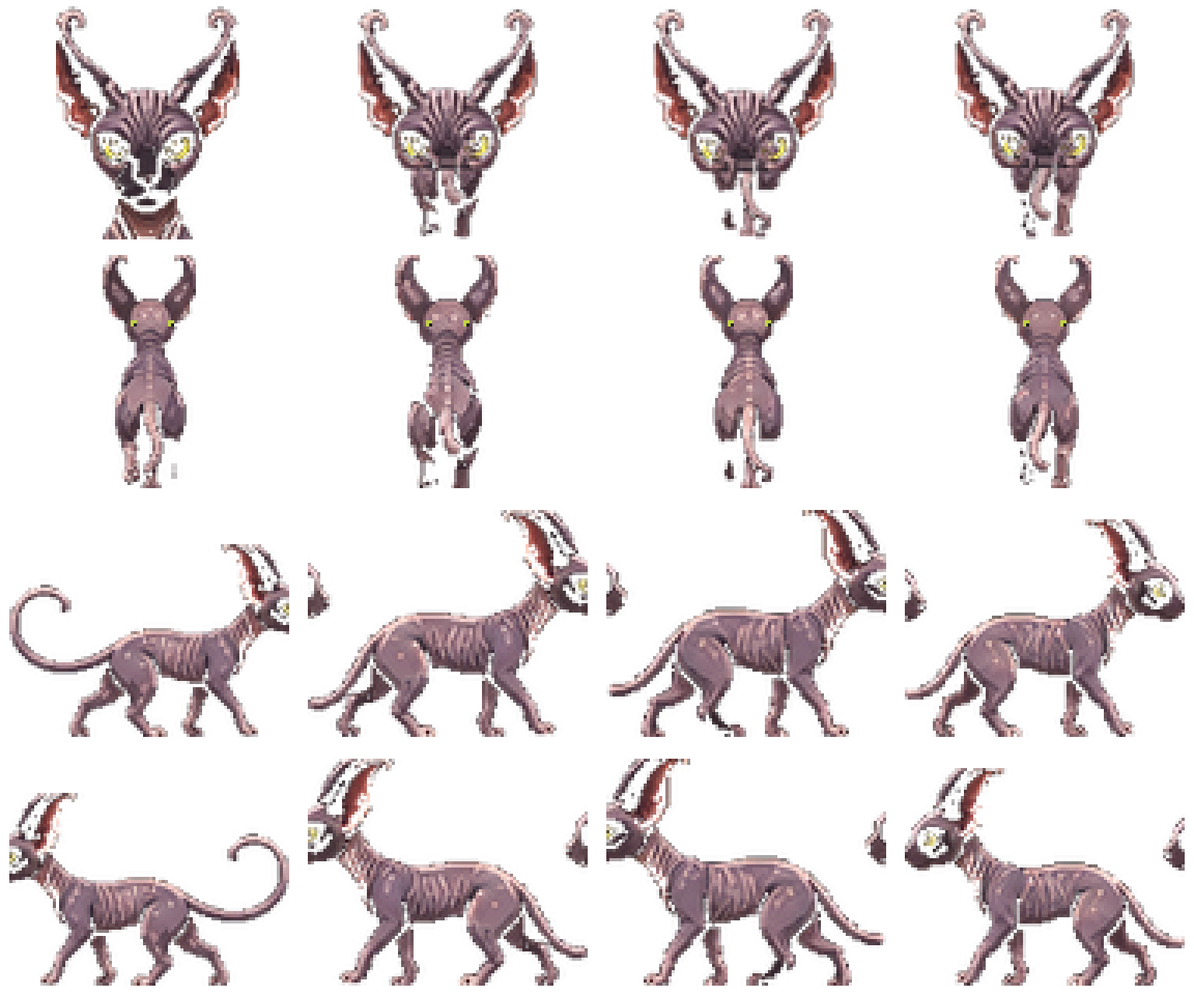
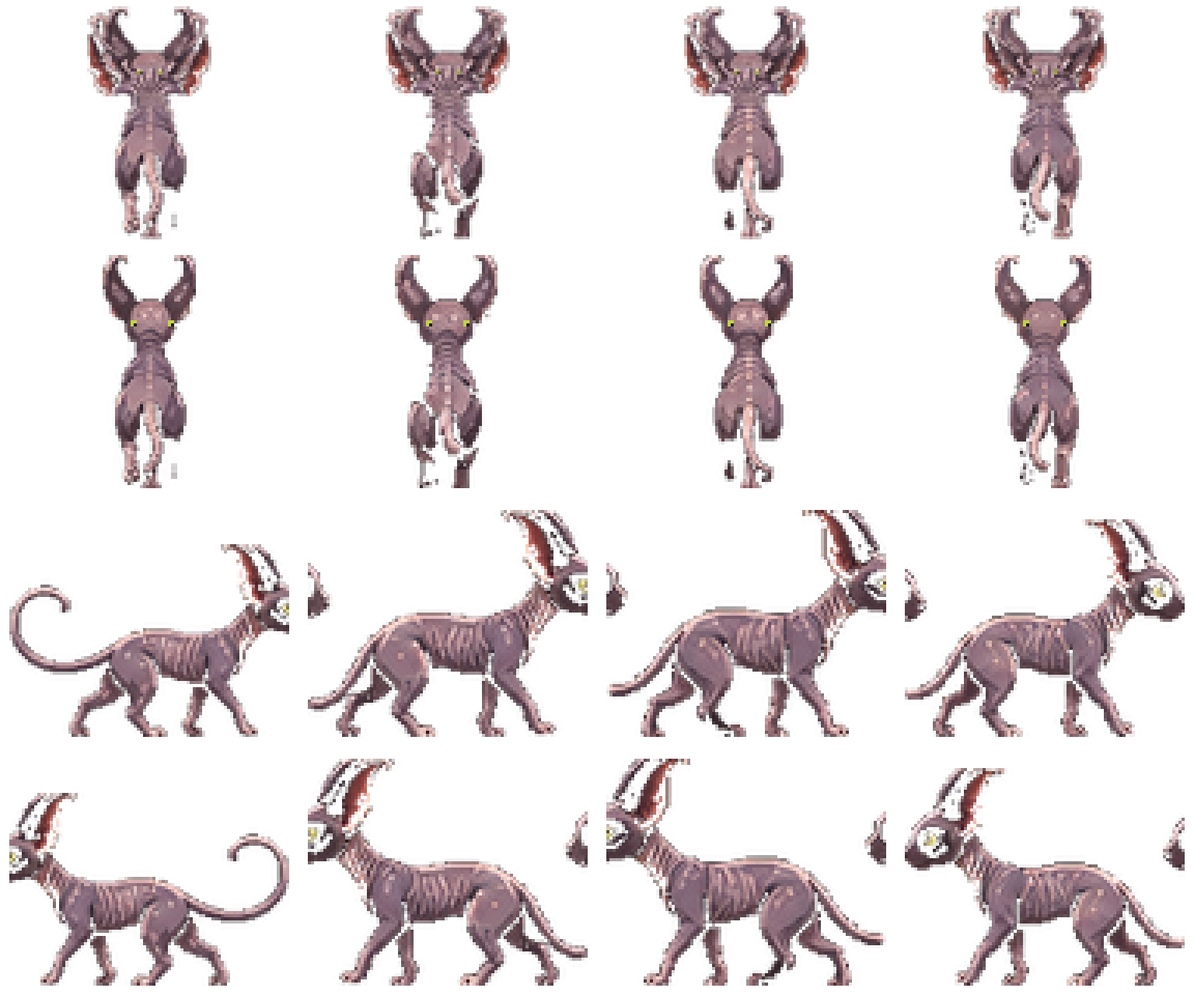
Fix Blue Sphynx in-game scale, atlas DOWN body, and label anchoring.
Rebuild full-body DOWN frames (no head-only cells), draw Blue at adult
Sphynx scale (~148×124 accounting for in-cell pad), raise his name label,
and bias Y-sort so foliage no longer swallows him. Add scale-lineup QA
evidence beside Haigen, Dylan, and Skölli.

diff --git a/haigen.html b/haigen.html
@@ -2432,43 +2432,101 @@ window.__approvedBlueAsset='blue-sphynx-atlas-v435.webp';
 blueAtlas.src='./assets/'+window.__approvedBlueAsset;
 function drawApprovedBlue(x,y,actor){
  if(!blueAtlasReady)return false;
- const m=actor||playerMotion,dir=m.dir||'down',moving=!!m.moving;
+ const m=actor||playerMotion,qa=actor&&actor._qaPose;
+ const dir=(qa&&qa.dir)||m.dir||'down',moving=qa?!!qa.moving:!!m.moving;
  const anim=m.anim||0,mode=m.mode||actor?.mode||'watching';
- const rest=['resting','sleeping'].includes(mode);
+ const rest=!qa&&['resting','sleeping'].includes(mode);
  const row={down:0,up:1,right:2,left:3}[dir]??0;
  const col=rest?0:(moving?Math.floor(anim/130)%4:0);
  const bounce=moving?Math.abs(Math.sin(anim*.014))*2:0;
- const width=58,height=48,drawX=Math.round(x-width/2),drawY=Math.round(y-height+5-bounce);
+ // Full-body cell (96×80). Side poses leave empty top pad in-cell (~76% filled), so draw
+ // taller than Haigen's 120px box: visible body+ears lands ~70%+ of Haigen (not kitten-scale).
+ const width=148,height=124,drawX=Math.round(x-width/2),drawY=Math.round(y-height+5-bounce);
  ctx.save();ctx.imageSmoothingEnabled=false;
- nordicContactShadow(x,y+5,14,3.5);
+ nordicContactShadow(x,y+7,32,7);
  ctx.drawImage(blueAtlas,col*96,row*80,96,80,drawX,drawY,width,height);
  ctx.restore();
- window.__v435BlueLastFrame={dir,moving,row,col,mode,width,height};
+ window.__v435BlueLastFrame={dir,moving,row,col,mode,width,height,footPad:5};
  return true;
 }
 window.__v435BlueStatus=()=>({
  asset:window.__approvedBlueAsset,loaded:blueAtlasReady,width:blueAtlas.naturalWidth,height:blueAtlas.naturalHeight,
  lastFrame:window.__v435BlueLastFrame||null
 });
+window.__blueQARestore=()=>{
+ if(!window.__blueQAStash)return;
+ for(const s of window.__blueQAStash){s.o.x=s.x;s.o.y=s.y}
+ window.__blueQAStash=null;
+};
 window.__blueQAPlace=(opts={})=>{
  const dir=opts.dir||'down',moving=!!opts.moving,close=!!opts.close;
- state.x=1530;state.y=1655;state.autonomy=false;state.resting=false;
- cam.x=1530;cam.y=close?1668:1635;cameraDetached=true;look.x=0;look.y=0;
+ const focus=opts.focus||'sphynx'; // sphynx | rabbit | fox
+ window.__blueQARestore();
+ // Open grass south of cottage — away from Haigen's tall sprite and art-cart clutter.
+ const focusX=1420,focusY=close?1588:1620;
+ state.x=close?focusX-160:1500;state.y=close?focusY-120:1580;
+ state.autonomy=false;state.resting=false;
+ playerMotion.dir='right';playerMotion.moving=false;
+ cam.x=focusX;cam.y=close?focusY+6:1605;cameraDetached=true;look.x=0;look.y=0;
+ if(close){
+  // Temporarily park foliage that Y-sorts over a small companion and reads as "buried".
+  const stash=[];
+  for(const o of objects){
+   if(!['bush','tree','fir','bareTree','palm','rock','log','stump'].includes(o.type))continue;
+   if(Math.hypot(o.x-focusX,o.y-focusY)>110)continue;
+   stash.push({o,x:o.x,y:o.y});o.x=-9999;o.y=-9999;
+  }
+  window.__blueQAStash=stash;
+ }
  for(const c of companions){
-  if(c.kind==='sphynx'){
-   c.x=close?state.x:state.x-28;c.y=close?state.y+36:state.y+42;
-   c.mode='watching';c.target=null;c.dir=dir;c.moving=moving;c.anim=moving?400:0;c.t=5000;
-  }else if(close){c.x=state.x+180;c.y=state.y+180}
-  else if(c.kind==='rabbit'){c.x=state.x-70;c.y=state.y+20}
+  c._qaPose=null;
+  if(c.kind===focus){
+   c.x=close?focusX:(c.kind==='sphynx'?state.x-28:c.kind==='rabbit'?state.x-70:state.x+70);
+   c.y=close?focusY:(c.kind==='sphynx'?state.y+42:state.y+20);
+   // 'called' keeps Skölli from auto-returning to the runestone mid-screenshot.
+   c.mode=close?'called':(c.kind==='fox'?'watching':c.kind==='rabbit'?'wandering':'watching');
+   c.target=null;c.dir=dir;c.moving=moving;c.anim=moving?400:0;c.t=12000;
+   c.threatWatchUntil=(typeof time==='number'?time:0)+20000;
+   if(c.kind==='sphynx')c._qaPose={dir,moving};
+  }else if(close||focus!=='sphynx'){
+   c.x=focusX+280;c.y=focusY+280;
+  }else if(c.kind==='rabbit'){c.x=state.x-70;c.y=state.y+20}
   else if(c.kind==='fox'){c.x=state.x+70;c.y=state.y+20}
  }
  return {
   build:window.__haigenBuild,
   kinds:companions.map(c=>c.kind),
   friends:state.friends,
+  focus,
+  cleared:close?(window.__blueQAStash||[]).length:0,
   blue:window.__v435BlueStatus(),
   saveKey:'wandererV127PreviewSave'
  };
+};
+
+
+window.__blueQALineup=()=>{
+ // Scale-comparison lineup: Haigen + Dylan + Blue + Skölli on open grass, labels clear.
+ window.__blueQARestore();
+ const baseX=1420,baseY=1588;
+ state.x=baseX-95;state.y=baseY;state.autonomy=false;state.resting=false;
+ playerMotion.dir='right';playerMotion.moving=false;playerMotion.anim=0;
+ cam.x=baseX+10;cam.y=baseY+8;cameraDetached=true;look.x=0;look.y=0;
+ const stash=[];
+ for(const o of objects){
+  if(!['bush','tree','fir','bareTree','palm','rock','log','stump'].includes(o.type))continue;
+  if(Math.hypot(o.x-baseX,o.y-baseY)>140)continue;
+  stash.push({o,x:o.x,y:o.y});o.x=-9999;o.y=-9999;
+ }
+ window.__blueQAStash=stash;
+ const spots={rabbit:[baseX-30,baseY+8],sphynx:[baseX+85,baseY+14],fox:[baseX+220,baseY+6]};
+ for(const c of companions){
+  c._qaPose=null;c.target=null;c.t=12000;c.moving=false;c.anim=0;c.dir='down';
+  c.threatWatchUntil=(typeof time==='number'?time:0)+20000;c.mode='called';
+  const s=spots[c.kind];if(s){c.x=s[0];c.y=s[1]}
+  if(c.kind==='sphynx')c._qaPose={dir:'down',moving:false};
+ }
+ return {lineup:true,blue:window.__v435BlueStatus(),cleared:stash.length};
 };
 
 function drawIllustratedCompanion(x,y,type,actor){
@@ -4538,7 +4596,7 @@ function foliageVisibility(o){
  }
  let distance=distanceToCanopy(state,46);
  for(const companion of companions){
-  if(companion.y<=o.y)distance=Math.min(distance,distanceToCanopy(companion,companion.kind==='fox'?24:companion.kind==='sphynx'?18:32));
+  if(companion.y<=o.y)distance=Math.min(distance,distanceToCanopy(companion,companion.kind==='fox'?24:companion.kind==='sphynx'?28:32));
  }
  if(nico.ready&&nicoArt.naturalWidth&&!homeInside&&nico.y<=o.y){
   distance=Math.min(distance,distanceToCanopy(nico,46));
@@ -9227,7 +9285,7 @@ for(let i=0;i<11;i++){
 for(let i=0;i<13;i++){const a=i*2.399,bx=pond.x+Math.cos(a)*pond.rx*lakeRadius(a)*.96,by=pond.y+Math.sin(a)*pond.ry*lakeRadius(a)*.96;ctx.strokeStyle='#4e9566';ctx.lineWidth=3;ctx.beginPath();ctx.moveTo(bx,by+9);ctx.lineTo(bx+Math.sin(time*.001+i)*5,by-22);ctx.stroke()}drawRegionalWildlife();if(!state.raftAfloat)drawRaft();function trollDoorwayTree(o){return (o.type==='tree'||o.type==='fir'||o.type==='bareTree'||o.kind==='tree'||o.kind==='fir')&&Math.abs(o.x-trollStumpHome.x)<310&&o.y>trollStumpHome.y-120&&o.y<trollStumpHome.y+310;}
 const visible=objects.filter(o=>!trollDoorwayTree(o)&&!worldEditorHidden.has(o.id)&&!o.type.startsWith('hamlet-')&&!state.removed.includes(o.id)&&canPlaceScenery(o)&&flowerHasHabitat(o)&&!campsiteProtected(o)&&Math.abs(o.x-cam.x)<W/zoom/2+150&&Math.abs(o.y-cam.y)<H/zoom/2+150);homesteadPlots.forEach(p=>{drawHomesteadPlotGround(p);drawLifeConstruction(p,false)});drawHaigenLookout();const drawables=[...homesteadPlots.filter(p=>homesteadTier(p)>0&&p.kind!=='jetty').map(p=>({y:homesteadSortY(p),draw:()=>drawHomesteadPlotForeground(p)})),...homesteadPlots.filter(p=>state.lifeProject?.kind===p.kind&&homesteadTier(p)===0).map(p=>({y:homesteadSortY(p),draw:()=>drawLifeConstruction(p,true)})),...remainingCampDebris().map(d=>({y:d.y,draw:()=>drawCampDebris(d)})),...state.meatDrops.filter(o=>Math.abs(o.x-cam.x)<W/zoom/2+150&&Math.abs(o.y-cam.y)<H/zoom/2+150).map(o=>({y:o.y,draw:()=>drawMeatDrop(o)})),...state.stoneDrops.filter(o=>Math.abs(o.x-cam.x)<W/zoom/2+150&&Math.abs(o.y-cam.y)<H/zoom/2+150).map(o=>({y:o.y,draw:()=>drawStonePiece(o)})),...state.fallen.filter(o=>!campsiteProtected(o)&&islandDepth(o.x,o.y)>70&&Math.abs(o.x-cam.x)<W/zoom/2+150&&Math.abs(o.y-cam.y)<H/zoom/2+150).map(o=>({y:o.y,draw:()=>{ellipse(o.x,o.y+5,17,8,'#385e39');if(o.kind==='log'){ctx.save();ctx.translate(o.x,o.y);ctx.rotate((Math.abs(o.x*7+o.y*3)%9-4)*.035);ctx.fillStyle='#302f29';ctx.fillRect(-26,-10,54,22);ctx.fillStyle='#79563b';ctx.fillRect(-24,-9,49,19);ctx.fillStyle='#a47a50';ctx.fillRect(-22,-8,46,5);ctx.fillStyle='#56432f';for(let j=0;j<4;j++)ctx.fillRect(-18+j*11,-2+(j%2)*5,3,7);ellipse(25,1,10,11,'#3b322a');ellipse(25,1,8,9,'#d0ad79');ellipse(25,1,5,6,'#96734f');ellipse(25,1,2,3,'#d0ad79');ctx.restore()}else if(o.kind==='twig'){ctx.strokeStyle='#745039';ctx.lineWidth=4;ctx.beginPath();ctx.moveTo(o.x-15,o.y+9);ctx.lineTo(o.x+15,o.y-12);ctx.moveTo(o.x-6,o.y);ctx.lineTo(o.x-9,o.y-12);ctx.stroke()}else{for(let j=0;j<5;j++)ellipse(o.x+(j-2)*7,o.y+(j%2)*5,7,4,j%2?'#6da04b':'#93b85e')}}})),...visible.filter(o=>o.type!=='specter'||spectorsActive()).map(o=>({y:o.type==='specter'?o.y+145:o.y,draw:()=>drawSceneryNearHaigen(o)})),...worldEditorData.placed.filter(o=>!worldEditorGroundKinds.has(o.type)&&Math.abs(o.x-cam.x)<W/zoom/2+250&&Math.abs(o.y-cam.y)<H/zoom/2+250).map(o=>({y:o.y,draw:()=>worldEditorSprite(o)})),{y:6600,draw:drawRiverwatchLighthouse},...objects.filter(o=>o.type.startsWith('hamlet-')&&!worldEditorHidden.has(o.id)&&Math.abs(o.x-cam.x)<W/zoom/2+190&&Math.abs(o.y-cam.y)<H/zoom/2+190).map(o=>({y:o.y,draw:()=>drawHamletScenery(o)})),...woodlandDetails.filter(o=>!trollDoorwayTree(o)&&(o.kind!=='fungi'||woodlandFungiReady(o))&&canPlaceScenery(o)&&!campsiteProtected(o)&&!homesteadPlots.some(p=>Math.hypot(o.x-p.x,o.y-p.y)<120)&&Math.abs(o.x-cam.x)<1150&&Math.abs(o.y-cam.y)<900).map(o=>({y:o.y,draw:()=>drawWoodlandDetail(o)})),...woodlandCritters.filter(o=>islandDepth(o.x,o.y)>80&&Math.abs(o.x-cam.x)<1150&&Math.abs(o.y-cam.y)<900).map(o=>({y:o.y,draw:()=>drawWoodlandCritter(o)})),...frogs.filter(f=>Math.abs(f.x-cam.x)<1150&&Math.abs(f.y-cam.y)<900).map(f=>({y:f.y,draw:()=>drawFrog(f)})),{y:ruins.y,draw:()=>ruin(ruins.x,ruins.y)},...state.structures.filter(s=>s.kind!=='shelter'&&s.kind!=='hut'&&s.kind!=='lodge'&&s.kind!=='castle').map(s=>({y:s.y,draw:()=>structure(s)})),...(state.campTier>0?[{y:homeInside?-999999:cottage.y+42,draw:drawCampHome}]:[]),...(window.__gloamAddon?[{y:window.__gloamAddon.y,draw:()=>window.__gloamAddon.drawBoss()}]:[]),...(window.__thrummaw?[{y:window.__thrummaw.y,draw:()=>window.__thrummaw.creature()}]:[]),...(travelCamp&&state.resting?[{y:travelCamp.y+1,draw:drawTravelCamp}]:[]),{y:state.y+1,draw:()=>{if(homeInside||trollStumpInside)return;ctx.save();
  if(collapseRemaining<=0&&time<damageFlashUntil)ctx.globalAlpha*=Math.floor(time/95)%2===0?.34:1;
- const depth=walkingLakeLevel(state.x,state.y),seaDepth=islandDepth(state.x,state.y);if(state.raftAfloat){drawRaft();character(state.x,state.y-8,'boy')}else if(state.skiffAtSea){drawSkiff();character(state.x,state.y,'boy')}else if(depth>=1&&seaDepth<0){character(state.x,state.y,'boy');ctx.save();ctx.fillStyle='rgba(58,157,179,'+Math.min(.62,.16+(-seaDepth/62)*.38)+')';ctx.beginPath();ctx.ellipse(state.x,state.y+3,24,10,0,Math.PI,Math.PI*2);ctx.lineTo(state.x+24,state.y+4);ctx.ellipse(state.x,state.y+4,24,9,0,0,Math.PI);ctx.fill();ctx.strokeStyle='#d8f6edaa';ctx.lineWidth=2;ctx.beginPath();ctx.ellipse(state.x,state.y+3,27,7,0,0,Math.PI*2);ctx.stroke();ctx.restore()}else if(depth<1){ctx.save();ctx.beginPath();ctx.rect(state.x-50,state.y-100,100,100);ctx.clip();ctx.translate(0,depth<.55?30:depth<.82?18:7);((state.resting||collapseRemaining>0)?drawSleepingHaigen(state.x,state.y):character(state.x,state.y,'boy',null,depth<.82));ctx.restore();ellipse(state.x,state.y+3,depth<.55?29:23,depth<.55?7:5,'#b3e4dc99');ctx.strokeStyle='#e4f7e8a9';ctx.lineWidth=2;ctx.beginPath();ctx.ellipse(state.x,state.y+3,depth<.55?35:26,depth<.55?12:8,0,0,Math.PI*2);ctx.stroke()}else if(state.resting||collapseRemaining>0)drawSleepingHaigen(state.x,state.y);else if(paintingNow)paintHaigen();else character(state.x,state.y,'boy');ctx.restore()}},...chickens.map(h=>({y:h.y,draw:()=>drawHen(h)})),...companions.map(c=>({y:c.y,draw:()=>{const depth=lakeLevel(c.x,c.y);if(depth<1){ctx.save();ctx.beginPath();ctx.rect(c.x-48,c.y-85,96,87);ctx.clip();ctx.translate(0,depth<.65?21:10);character(c.x,c.y,c.kind,c);ctx.restore();ellipse(c.x,c.y+3,23,6,'#b3e4dc99');ctx.strokeStyle='#e4f7e8a9';ctx.lineWidth=2;ctx.beginPath();ctx.ellipse(c.x,c.y+3,28,9,0,0,Math.PI*2);ctx.stroke()}else character(c.x,c.y,c.kind,c)}}))];drawables.push(...state.pondFamilies.filter(f=>f.stage!=='gather'||f.twigs>=2).map(f=>({y:f.nestY,draw:()=>drawDuckNest(f)})));drawables.push(...state.pondFamilies.flatMap(f=>f.chicks).filter(ch=>Math.abs(ch.x-cam.x)<1100&&Math.abs(ch.y-cam.y)<900).map(ch=>({y:ch.y,draw:()=>drawDuckling(ch)})));drawables.push(...ducks.filter(d=>Math.abs(d.x-cam.x)<1100&&Math.abs(d.y-cam.y)<900).map(d=>({y:d.y,draw:()=>drawDuck(d)})));drawables.push(...birds.filter(b=>islandDepth(b.x,b.y)>50&&Math.abs(b.x-cam.x)<1100&&Math.abs(b.y-cam.y)<900).map(b=>({y:b.y,draw:()=>drawBird(b)})));if(state.coopTier){drawables.push({y:chickenNest.y,draw:drawChickenNest});if(state.rooster)drawables.push({y:coopPlot.y+52,draw:drawRooster})}drawables.push(...beasts.filter(animalAlive).map(b=>({y:b.y,draw:()=>drawBeast(b)})));trollHabitats.forEach((t,i)=>{if(caveTrolls.find(r=>r.sprite===i).room==='habitat'&&t.pos&&Math.abs(t.pos.x-cam.x)<1050&&Math.abs(t.pos.y-cam.y)<800)drawables.push({y:t.pos.y,draw:()=>drawTroll(t,i)})});for(const t of caveTrolls){if(t.room==='woods'&&Math.abs(t.x-cam.x)<1050&&Math.abs(t.y-cam.y)<800)drawables.push({y:t.y,draw:()=>drawTrollSprite(t.sprite,t.x,t.y,trollSpriteSize,t.dir,t.walking,t.clock)});}artDrawables(drawables);if(nico.ready)drawables.push({y:nico.y,draw:drawNico});drawables.push({y:trollStumpHome.y-2,draw:drawTrollStump});if(state.skiffBerth&&!state.skiffAtSea)drawSkiff();drawables.sort((a,b)=>a.y-b.y).forEach(o=>o.draw());worldEditorOutline();if(!state.skiffAtSea)drawPaddleSplash();if(window.__gloamAddon)window.__gloamAddon.drawEffects();drawStoryMarker();drawWardenOmen();drawRain();drawToolSwing();updateHaigenSpeech();for(let c of companions){ctx.font='bold 16px system-ui';ctx.textAlign='center';ctx.fillStyle='#183d32';ctx.fillText(c.name,c.x,c.y-(c.kind==='sphynx'?52:65))}const darkness=nightStrength();if(darkness>.005){
+ const depth=walkingLakeLevel(state.x,state.y),seaDepth=islandDepth(state.x,state.y);if(state.raftAfloat){drawRaft();character(state.x,state.y-8,'boy')}else if(state.skiffAtSea){drawSkiff();character(state.x,state.y,'boy')}else if(depth>=1&&seaDepth<0){character(state.x,state.y,'boy');ctx.save();ctx.fillStyle='rgba(58,157,179,'+Math.min(.62,.16+(-seaDepth/62)*.38)+')';ctx.beginPath();ctx.ellipse(state.x,state.y+3,24,10,0,Math.PI,Math.PI*2);ctx.lineTo(state.x+24,state.y+4);ctx.ellipse(state.x,state.y+4,24,9,0,0,Math.PI);ctx.fill();ctx.strokeStyle='#d8f6edaa';ctx.lineWidth=2;ctx.beginPath();ctx.ellipse(state.x,state.y+3,27,7,0,0,Math.PI*2);ctx.stroke();ctx.restore()}else if(depth<1){ctx.save();ctx.beginPath();ctx.rect(state.x-50,state.y-100,100,100);ctx.clip();ctx.translate(0,depth<.55?30:depth<.82?18:7);((state.resting||collapseRemaining>0)?drawSleepingHaigen(state.x,state.y):character(state.x,state.y,'boy',null,depth<.82));ctx.restore();ellipse(state.x,state.y+3,depth<.55?29:23,depth<.55?7:5,'#b3e4dc99');ctx.strokeStyle='#e4f7e8a9';ctx.lineWidth=2;ctx.beginPath();ctx.ellipse(state.x,state.y+3,depth<.55?35:26,depth<.55?12:8,0,0,Math.PI*2);ctx.stroke()}else if(state.resting||collapseRemaining>0)drawSleepingHaigen(state.x,state.y);else if(paintingNow)paintHaigen();else character(state.x,state.y,'boy');ctx.restore()}},...chickens.map(h=>({y:h.y,draw:()=>drawHen(h)})),...companions.map(c=>({y:c.y+(c.kind==='sphynx'?28:0),draw:()=>{const depth=lakeLevel(c.x,c.y);if(depth<1){ctx.save();ctx.beginPath();const clipH=c.kind==='sphynx'?165:87,clipTop=c.kind==='sphynx'?158:85;ctx.rect(c.x-48,c.y-clipTop,96,clipH);ctx.clip();ctx.translate(0,depth<.65?21:10);character(c.x,c.y,c.kind,c);ctx.restore();ellipse(c.x,c.y+3,23,6,'#b3e4dc99');ctx.strokeStyle='#e4f7e8a9';ctx.lineWidth=2;ctx.beginPath();ctx.ellipse(c.x,c.y+3,28,9,0,0,Math.PI*2);ctx.stroke()}else character(c.x,c.y,c.kind,c)}}))];drawables.push(...state.pondFamilies.filter(f=>f.stage!=='gather'||f.twigs>=2).map(f=>({y:f.nestY,draw:()=>drawDuckNest(f)})));drawables.push(...state.pondFamilies.flatMap(f=>f.chicks).filter(ch=>Math.abs(ch.x-cam.x)<1100&&Math.abs(ch.y-cam.y)<900).map(ch=>({y:ch.y,draw:()=>drawDuckling(ch)})));drawables.push(...ducks.filter(d=>Math.abs(d.x-cam.x)<1100&&Math.abs(d.y-cam.y)<900).map(d=>({y:d.y,draw:()=>drawDuck(d)})));drawables.push(...birds.filter(b=>islandDepth(b.x,b.y)>50&&Math.abs(b.x-cam.x)<1100&&Math.abs(b.y-cam.y)<900).map(b=>({y:b.y,draw:()=>drawBird(b)})));if(state.coopTier){drawables.push({y:chickenNest.y,draw:drawChickenNest});if(state.rooster)drawables.push({y:coopPlot.y+52,draw:drawRooster})}drawables.push(...beasts.filter(animalAlive).map(b=>({y:b.y,draw:()=>drawBeast(b)})));trollHabitats.forEach((t,i)=>{if(caveTrolls.find(r=>r.sprite===i).room==='habitat'&&t.pos&&Math.abs(t.pos.x-cam.x)<1050&&Math.abs(t.pos.y-cam.y)<800)drawables.push({y:t.pos.y,draw:()=>drawTroll(t,i)})});for(const t of caveTrolls){if(t.room==='woods'&&Math.abs(t.x-cam.x)<1050&&Math.abs(t.y-cam.y)<800)drawables.push({y:t.y,draw:()=>drawTrollSprite(t.sprite,t.x,t.y,trollSpriteSize,t.dir,t.walking,t.clock)});}artDrawables(drawables);if(nico.ready)drawables.push({y:nico.y,draw:drawNico});drawables.push({y:trollStumpHome.y-2,draw:drawTrollStump});if(state.skiffBerth&&!state.skiffAtSea)drawSkiff();drawables.sort((a,b)=>a.y-b.y).forEach(o=>o.draw());worldEditorOutline();if(!state.skiffAtSea)drawPaddleSplash();if(window.__gloamAddon)window.__gloamAddon.drawEffects();drawStoryMarker();drawWardenOmen();drawRain();drawToolSwing();updateHaigenSpeech();for(let c of companions){ctx.font='bold 16px system-ui';ctx.textAlign='center';ctx.fillStyle='#183d32';ctx.fillText(c.name,c.x,c.y-(c.kind==='sphynx'?142:c.kind==='fox'?78:70))}const darkness=nightStrength();if(darkness>.005){
  // Night is now painted into the landscape itself: no purple fog/filter.
  // A very light midnight tint preserves individual object colours and bright flowers.
  const viewX=cam.x-W/zoom,viewY=cam.y-H/zoom,viewW=W/zoom*2,viewH=H/zoom*2;

diff --git a/.github/scripts/build_blue_sphynx_atlas.py b/.github/scripts/build_blue_sphynx_atlas.py
@@ -43,9 +43,10 @@ RIGHT_BOXES = [
     (766, 266, 877, 356),
     (879, 265, 997, 357),
 ]
-# Locked front idle (Views / Idle) — head+chest; crop stops above panel chrome.
-FRONT_IDLE_BOX = (52, 148, 134, 252)
-# Side sitting idle for DOWN body proportions assist.
+# Locked front face/ears from Views / Idle (bust). Full-body DOWN uses UP walk
+# silhouettes so paws stay planted — never ship a head-only cell.
+FRONT_FACE_BOX = (52, 148, 134, 252)
+# Optional side sit for palette assist.
 SIDE_IDLE_BOX = (268, 155, 350, 278)
 
 
@@ -212,68 +213,92 @@ def reinforce_eyes(im: Image.Image) -> Image.Image:
     return out
 
 
-def build_down_walk(
-    front_idle: Image.Image,
+def build_down_frames(
+    front_face: Image.Image,
     up_frames: list[Image.Image],
     palette: list[tuple[int, int, int]],
 ) -> list[Image.Image]:
-    """Pose-complete front walk from locked front idle + UP leg cadence.
+    """Full-body DOWN idle/walk: UP silhouette (paws planted) + locked front face.
 
-    Preserves front face/horn-ears from the approved idle. Standing body height
-    matches UP walk. Leg phase offsets follow UP without inventing a new design.
+    Never emits a head-only cell. Face overlay is limited to the crown/head band
+    so torso, legs and tail from the approved UP walk stay visible.
     """
-    head = trim_alpha(front_idle)
-    # Keep upper ~70% as locked face/ears/chest identity (sitting crop is already bust-ish).
-    head_cut = max(8, int(head.height * 0.72))
+    head = trim_alpha(front_face)
+    # Upper ~55% = ears + face only (exclude long bust that swallowed the body).
+    head_cut = max(8, int(head.height * 0.55))
     face = head.crop((0, 0, head.width, head_cut))
+    face = reinforce_eyes(face)
 
     frames: list[Image.Image] = []
     for i, up in enumerate(up_frames):
         up_s = trim_alpha(up)
-        W, H = 128, 160
+        W, H = 120, 150
         canvas = Image.new("RGBA", (W, H), (0, 0, 0, 0))
 
-        body_h = int(H * 0.70)
+        # Keep the entire UP body — this is what plants the paws.
+        body_h = int(H * 0.88)
         body = up_s.resize(
-            (max(1, int(up_s.width * (body_h / up_s.height) * 1.05)), body_h),
+            (max(1, int(up_s.width * (body_h / up_s.height))), body_h),
             Image.Resampling.LANCZOS,
         )
-        drop = int(body.height * 0.38)
-        body_lower = body.crop((0, drop, body.width, body.height))
-        # Soften back-highlight spine so it reads less as "back view" under the face.
-        bl = body_lower.load()
-        for yy in range(body_lower.height):
-            for xx in range(body_lower.width):
+        # Soften rear spine highlight so the front face reads as toward-camera.
+        bl = body.load()
+        for yy in range(int(body.height * 0.42)):
+            for xx in range(body.width):
                 r, g, b, a = bl[xx, yy]
                 if a < 18:
                     continue
-                # Dim pale back ridge toward mid mauve
-                if r > 170 and g > 150 and b > 140:
-                    bl[xx, yy] = (int(r * 0.72 + 110 * 0.28), int(g * 0.72 + 95 * 0.28), int(b * 0.72 + 105 * 0.28), a)
-        bx = (W - body_lower.width) // 2
-        by = H - FOOT_PAD - body_lower.height
-        canvas.alpha_composite(body_lower, (bx, by))
+                if r > 165 and g > 145 and b > 135:
+                    bl[xx, yy] = (
+                        int(r * 0.65 + 105 * 0.35),
+                        int(g * 0.65 + 90 * 0.35),
+                        int(b * 0.65 + 100 * 0.35),
+                        a,
+                    )
+        bx = (W - body.width) // 2
+        by = H - FOOT_PAD - body.height
+        canvas.alpha_composite(body, (bx, by))
 
-        face_h = int(H * 0.52)
+        # Widen the upper torso so the front face does not sit on a pinching neck.
+        px = canvas.load()
+        neck_y0 = by + int(body.height * 0.18)
+        neck_y1 = by + int(body.height * 0.48)
+        for yy in range(neck_y0, neck_y1):
+            xs = [xx for xx in range(W) if px[xx, yy][3] > 40]
+            if len(xs) < 2:
+                continue
+            x0, x1 = min(xs), max(xs)
+            widen = 3 if yy < (neck_y0 + neck_y1) // 2 else 2
+            sample = px[(x0 + x1) // 2, yy]
+            for xx in range(max(0, x0 - widen), min(W, x1 + widen + 1)):
+                if px[xx, yy][3] < 40:
+                    px[xx, yy] = sample
+
+        # Face only — ~32% of canvas height, anchored on UP crown.
+        face_h = max(18, int(H * 0.32))
         face_s = face.resize(
             (max(1, int(face.width * (face_h / face.height))), face_h),
             Image.Resampling.LANCZOS,
         )
-        face_s = reinforce_eyes(face_s)
         fx = (W - face_s.width) // 2
-        bob = [0, 2, 0, 3][i % 4]
-        fy = max(0, by - int(face_s.height * 0.55) - bob)
+        bob = [0, 1, 0, 2][i % 4]
+        fy = max(0, by + int(body.height * 0.02) - bob)
         canvas.alpha_composite(face_s, (fx, fy))
 
-        # Light chest patch (locked peach) under chin so front reads clearly.
+        # Peach chest cue under chin (locked palette) without covering legs.
         chest = nearest((190, 150, 145), palette)
         px = canvas.load()
-        for oy in range(4):
-            for ox in range(-4, 5):
-                x = W // 2 + ox
-                y = fy + face_s.height - 6 + oy
-                if 0 <= x < W and 0 <= y < H and px[x, y][3] > 30:
-                    r, g, b, a = px[x, y]
+        chin_y = fy + face_s.height - 2
+        for oy in range(8):
+            for ox in range(-7, 8):
+                x, y = W // 2 + ox, chin_y + oy
+                if not (0 <= x < W and 0 <= y < H):
+                    continue
+                r, g, b, a = px[x, y]
+                if a < 40:
+                    # Fill tiny chin gaps so head and torso stay connected.
+                    px[x, y] = (chest[0], chest[1], chest[2], 220)
+                else:
                     px[x, y] = (
                         int(r * 0.55 + chest[0] * 0.45),
                         int(g * 0.55 + chest[1] * 0.45),
@@ -281,19 +306,7 @@ def build_down_walk(
                         a,
                     )
 
-        paw = nearest((95, 82, 96), palette)
-        base_y = H - FOOT_PAD - 1
-        lift_l, lift_r = i in (1, 2), i in (0, 3)
-        for dx, lift in ((-8, lift_l), (7, lift_r)):
-            py = base_y - (4 if lift else 0)
-            for ox in range(-2, 3):
-                for oy in range(-1, 2):
-                    x, y = W // 2 + dx + ox, py + oy
-                    if 0 <= x < W and 0 <= y < H:
-                        if px[x, y][3] < 30:
-                            px[x, y] = (*paw, 220)
-
-        frames.append(reinforce_eyes(soft_posterize(trim_alpha(canvas), palette, mix=0.22)))
+        frames.append(reinforce_eyes(soft_posterize(trim_alpha(canvas), palette, mix=0.18)))
     return frames
 
 
@@ -304,10 +317,10 @@ def main() -> None:
 
     up = [extract(src, b) for b in UP_BOXES]
     right = [extract(src, b) for b in RIGHT_BOXES]
-    front_idle = extract(src, FRONT_IDLE_BOX)
+    front_face = extract(src, FRONT_FACE_BOX)
     side_idle = extract(src, SIDE_IDLE_BOX)
 
-    palette = sample_palette(front_idle, 14)
+    palette = sample_palette(front_face, 14)
     palette += sample_palette(right[0], 10)
     # Dedup
     uniq = []
@@ -316,10 +329,7 @@ def main() -> None:
             uniq.append(c)
     palette = uniq
 
-    down_walk = build_down_walk(front_idle, up, palette)
-    # Frame 0 of DOWN prefers the locked sitting idle (true approved front expression).
-    down_idle = reinforce_eyes(soft_posterize(front_idle, palette, mix=0.20))
-    down_frames = [down_idle] + down_walk[1:]
+    down_frames = build_down_frames(front_face, up, palette)
 
     up_frames = [soft_posterize(f, palette, mix=0.18) for f in up]
     right_frames = [soft_posterize(f, palette, mix=0.18) for f in right]
@@ -347,13 +357,13 @@ def main() -> None:
         "asset": str(OUT.relative_to(ROOT)),
         "cell": [CELL_W, CELL_H],
         "layout": "rows=down,up,right,left; cols=idle+walk×3",
-        "drawHint": {"width": 58, "height": 48, "footPad": FOOT_PAD},
+        "drawHint": {"width": 78, "height": 66, "footPad": 7},
         "source": str(SRC.relative_to(ROOT)),
         "sourceSha256": sha256(SRC),
         "outputSha256": sha256(OUT),
         "size": list(atlas.size),
         "left": "mirror(right)",
-        "downWalk": "pose-completed from locked front idle + UP cadence; face/ears from approved idle",
+        "downWalk": "full-body UP silhouette + locked front face overlay (no head-only cells)",
         "paletteSample": ["#%02x%02x%02x" % c for c in palette[:10]],
     }
     META.write_text(json.dumps(meta, indent=2) + "\n")
